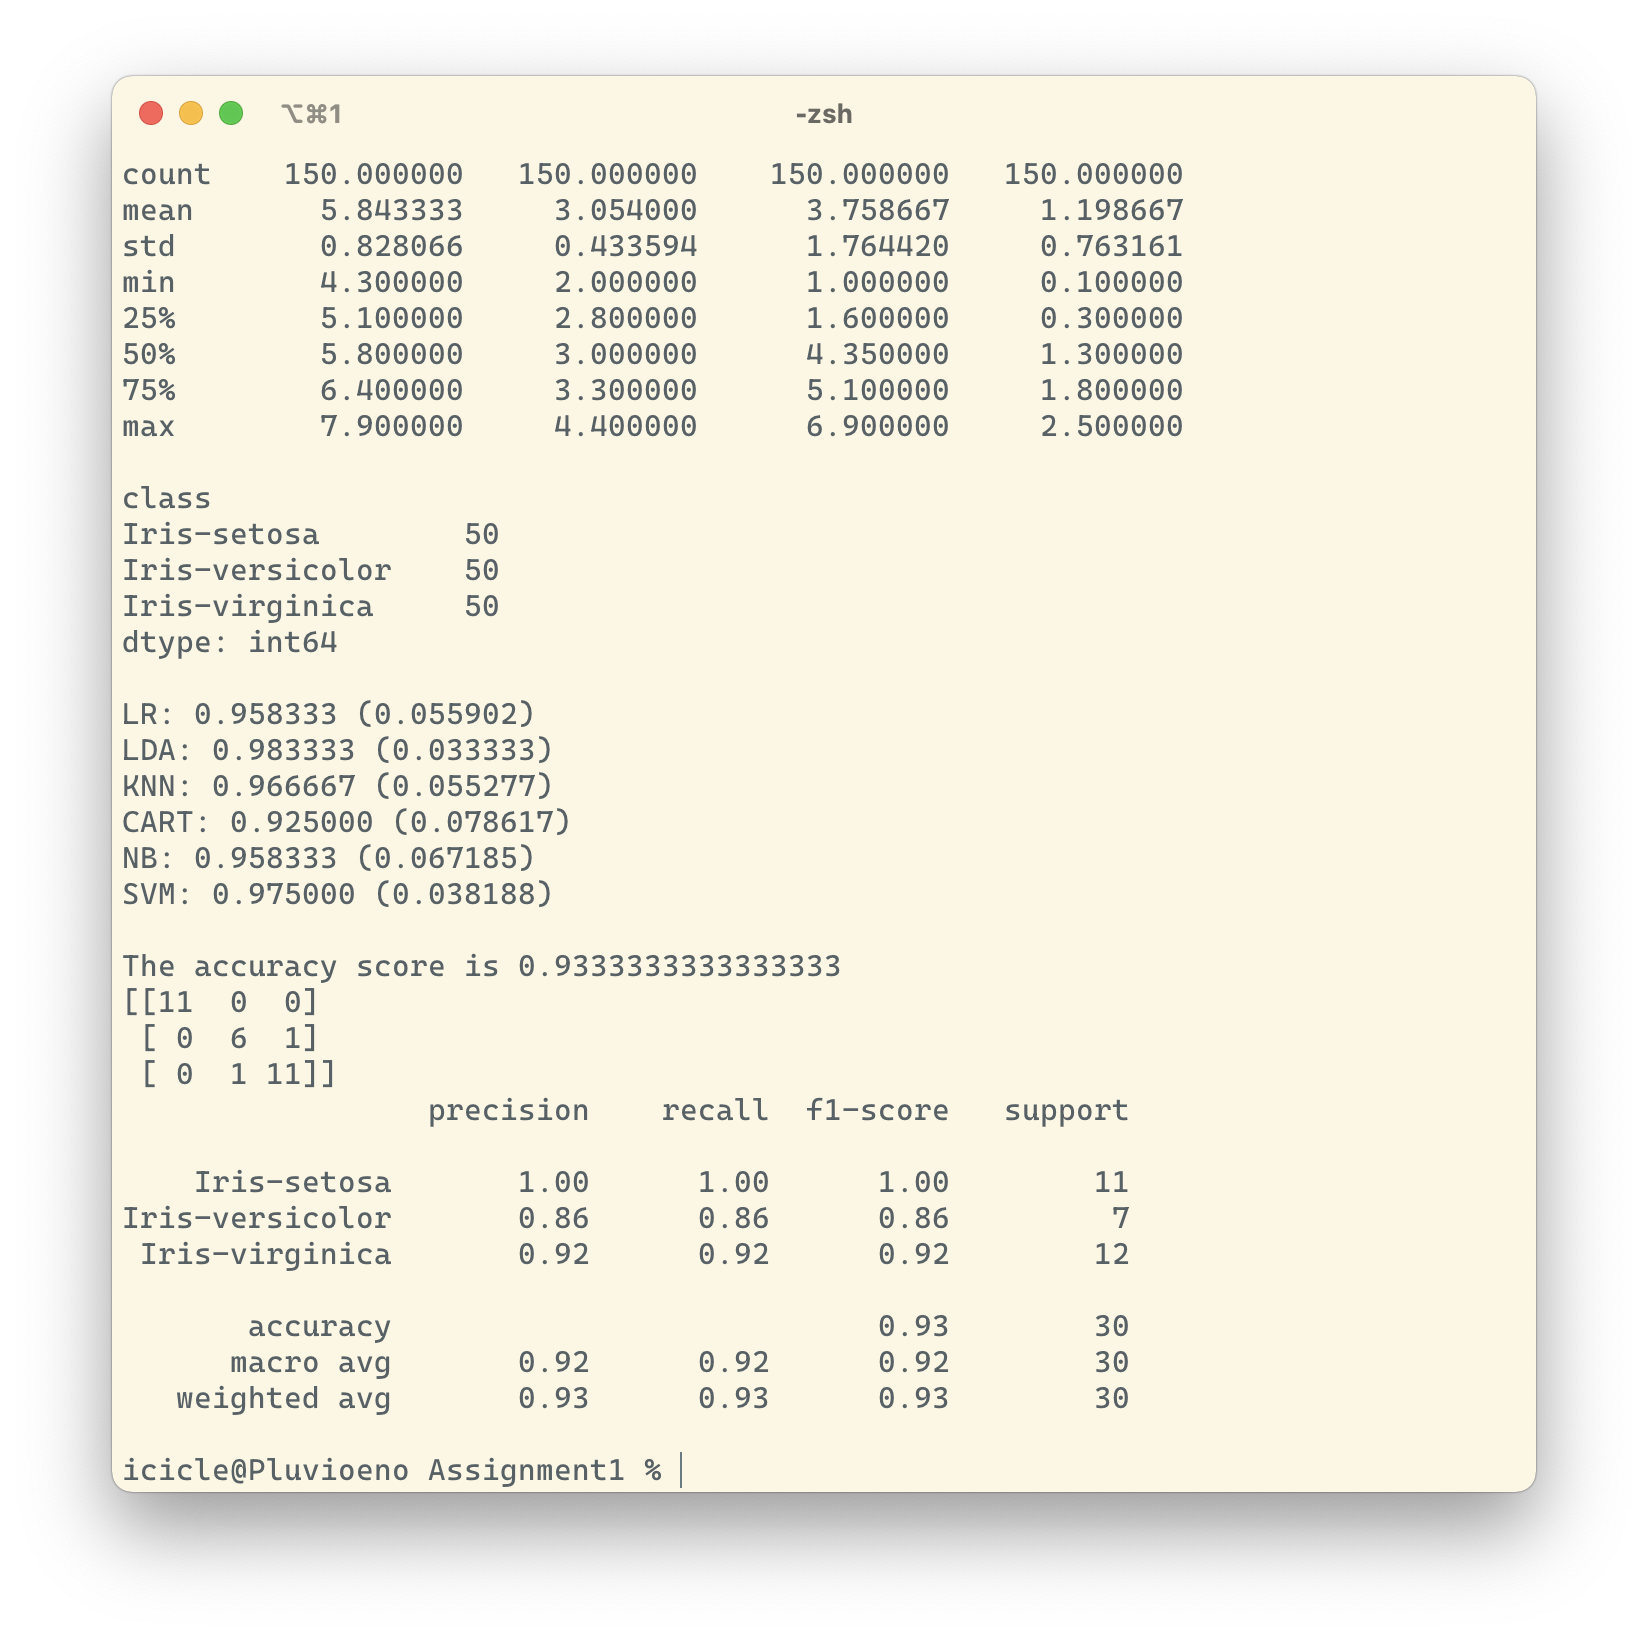
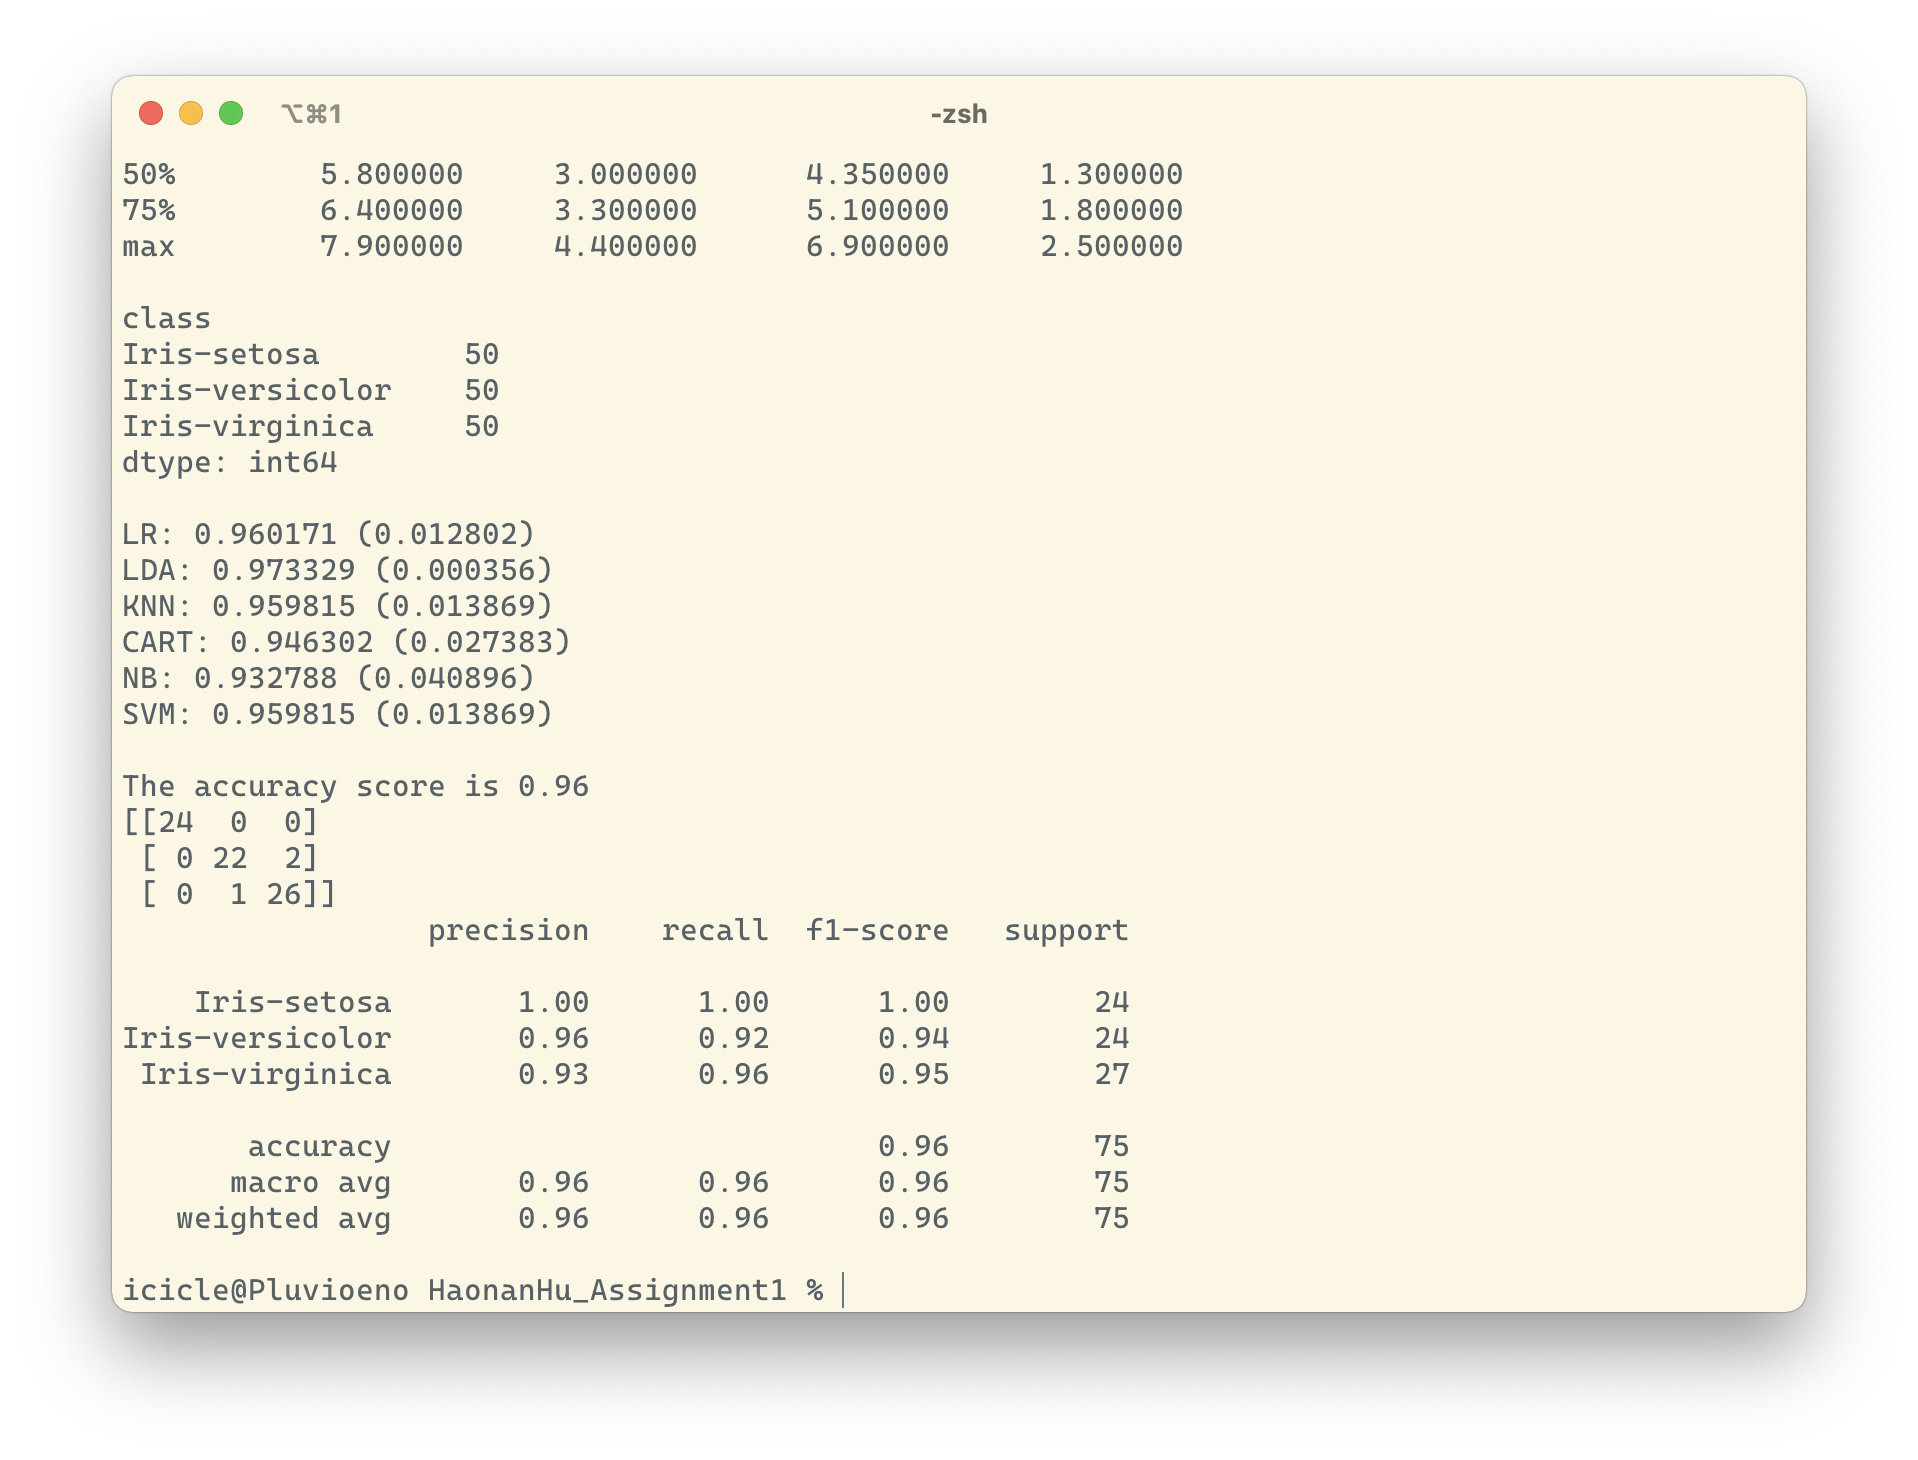
update assignment 1

diff --git a/HaonanHu_Assignment1/NBClassifier.py b/HaonanHu_Assignment1/NBClassifier.py
@@ -37,7 +37,7 @@ plt.show()
 pd.array = df.values
 X = pd.array[:,0:4]  # slicing a 2d array with first 4 items in each dimension
 Y = pd.array[:,4]  # slicing a 2d array with 5th item left in each dimension
-X_train, X_validation, Y_train, Y_validation = train_test_split(X, Y, test_size=0.2)  # test_size is 20% of totol samples
+X_train, X_validation, Y_train, Y_validation = train_test_split(X, Y, test_size=0.5, random_state=1)  # test_size is 50% of totol samples
 
 # Use of stratified 10-fold cross validation to estimate accuracy
 # meaning of split dataframe into 10 parts, train on 9 and test on 1 and
@@ -57,7 +57,7 @@ models.append(('SVM', SVC(gamma='auto')))
 result = []
 names = []
 for name, model in models:
-    kfold = StratifiedKFold(n_splits=10, random_state=1, shuffle=True)
+    kfold = StratifiedKFold(n_splits=2, random_state=1, shuffle=True)
     cv_results = cross_val_score(model, X_train, Y_train, cv=kfold, scoring='accuracy')
     result.append(cv_results)
     names.append(name)
@@ -71,7 +71,7 @@ plt.title('Algorithm Comparison')
 plt.show()
 
 # making prediction
-predict_model = SVC(gamma='auto')
+predict_model = GaussianNB()  # Choose NB model, although LDA has better performance
 predict_model.fit(X_train, Y_train)
 prediction = predict_model.predict(X_validation)
 
